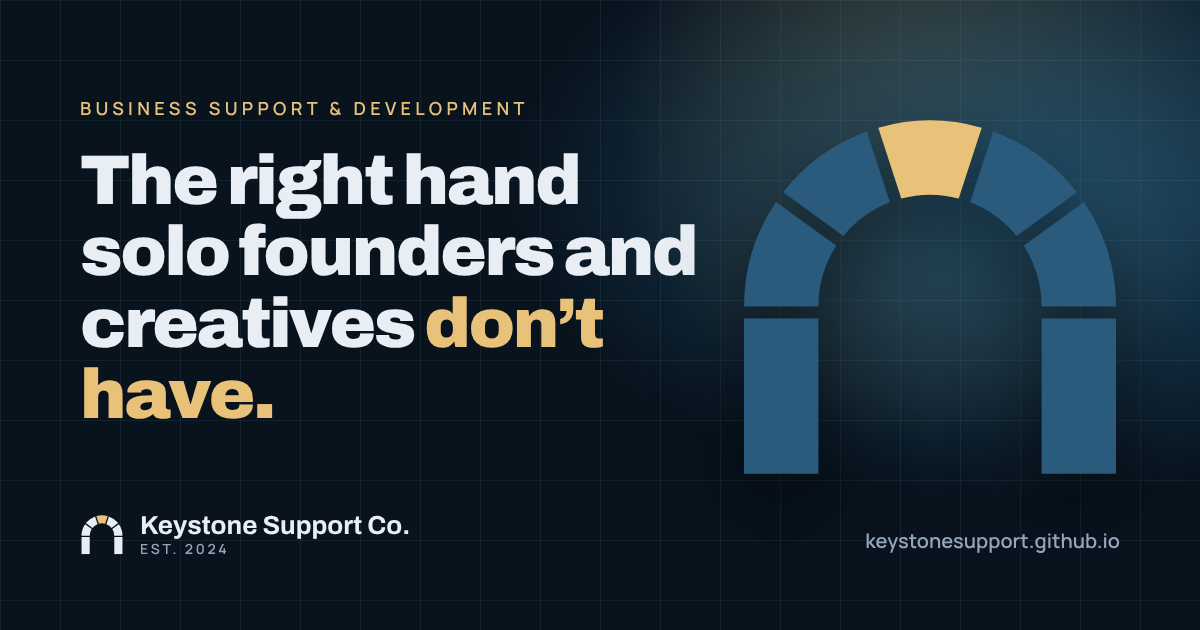
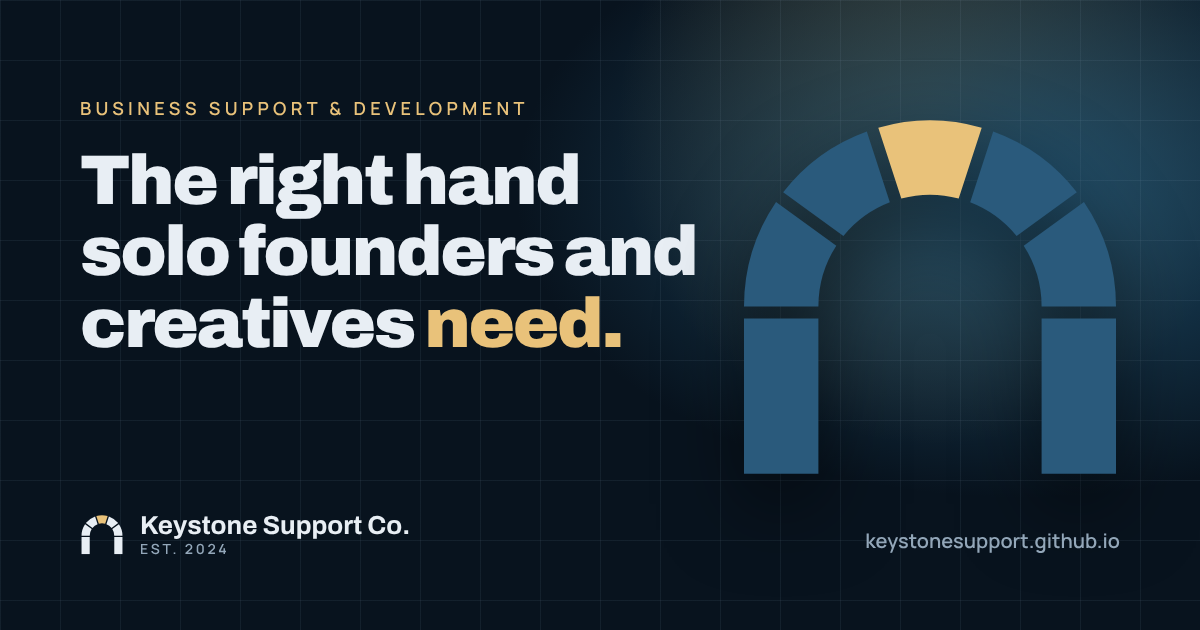
Professional hero copy, tighter spacing, matching arch labels

Changed region(s): [[0.3392, 0.4524, 0.5242, 0.573], [0.0617, 0.573, 0.2467, 0.6635]]

diff --git a/index.html b/index.html
@@ -4,7 +4,7 @@
 <meta charset="utf-8">
 <meta name="viewport" content="width=device-width, initial-scale=1">
 <title>Keystone Support Co. — Business support &amp; development</title>
-<meta name="description" content="The right hand solo founders and creatives don't have: admin, website care, cost savings, promotion and new opportunities from one partner. Established 2024.">
+<meta name="description" content="The right hand solo founders and creatives need: admin, website care, cost savings, promotion and new opportunities from one partner. Established 2024.">
 <meta property="og:title" content="Keystone Support Co. — Business support &amp; development">
 <meta property="og:description" content="Support and development for solo founders and creatives, from one partner.">
 <meta property="og:type" content="website">
@@ -12,7 +12,7 @@
 <meta property="og:image" content="https://keystonesupport.github.io/og-image.png">
 <meta property="og:image:width" content="1200">
 <meta property="og:image:height" content="630">
-<meta property="og:image:alt" content="Keystone Support Co. — The right hand solo founders and creatives don't have.">
+<meta property="og:image:alt" content="Keystone Support Co. — The right hand solo founders and creatives need.">
 <meta name="twitter:card" content="summary_large_image">
 <meta name="twitter:image" content="https://keystonesupport.github.io/og-image.png">
 <meta name="theme-color" content="#08131e">
@@ -84,7 +84,7 @@ header.nav.scrolled{background:rgba(8,19,30,.72);backdrop-filter:blur(14px) satu
 .btn:hover .arr{transform:translateX(4px)}
 
 /* hero */
-.hero{position:relative;min-height:100vh;min-height:100svh;display:flex;align-items:center;padding:120px 0 80px;overflow:hidden;--mx:0;--my:0}
+.hero{position:relative;min-height:88vh;min-height:88svh;display:flex;align-items:center;padding:110px 0 40px;overflow:hidden;--mx:0;--my:0}
 .hero .bgfx{position:absolute;inset:0;pointer-events:none}
 .blob{position:absolute;border-radius:50%;filter:blur(80px);opacity:.55}
 .blob.b1{width:620px;height:620px;right:-140px;top:-120px;background:radial-gradient(circle,#1f4e6b,transparent 65%);transform:translate(calc(var(--mx)*-30px),calc(var(--my)*-30px))}
@@ -141,8 +141,8 @@ header.nav.scrolled{background:rgba(8,19,30,.72);backdrop-filter:blur(14px) satu
 
 /* sections */
 section{position:relative}
-.band{padding:130px 0}
-.sec-head{display:flex;justify-content:space-between;align-items:end;gap:40px;margin-bottom:60px;flex-wrap:wrap}
+.band{padding:80px 0}
+.sec-head{display:flex;justify-content:space-between;align-items:end;gap:40px;margin-bottom:40px;flex-wrap:wrap}
 .sec-head h2{margin-top:18px;max-width:720px}
 .sec-head .lead{max-width:420px}
 [data-reveal]{transition:opacity 1s var(--ease),transform 1s var(--ease);transition-delay:calc(var(--d,0)*90ms)}
@@ -375,7 +375,7 @@ input[type=range]:focus-visible{box-shadow:0 0 0 3px rgba(233,194,122,.35)}
 .ba-cap{font-size:12.5px;color:var(--dim);margin-top:12px;text-align:center}
 
 /* contact form */
-.contact{padding:130px 0 110px;overflow:hidden}
+.contact{padding:80px 0 80px;overflow:hidden}
 .contact .glow{position:absolute;left:50%;top:40%;width:900px;height:600px;transform:translate(-50%,-50%);background:radial-gradient(ellipse,rgba(31,78,107,.55),transparent 65%);filter:blur(40px);pointer-events:none}
 .contact-grid{position:relative;display:grid;grid-template-columns:.85fr 1.15fr;gap:60px;align-items:start}
 .contact-info .lead{margin:20px 0 34px}
@@ -462,7 +462,9 @@ footer{border-top:1px solid var(--line);padding:60px 0 40px;color:var(--muted);f
   .menu-open header.nav{background:rgba(8,19,30,.97)}
   .menu-btn{display:block}
   .wrap{padding:0 16px}
-  .band{padding:90px 0}
+  .band{padding:56px 0}
+  .contact{padding:56px 0}
+  .sec-head{margin-bottom:28px}
   .services,.services.s3,.plans.p4,.tasks,.chips,.two,.stats{grid-template-columns:1fr}
   .side-head small{display:none}
   .stats{grid-template-columns:repeat(3,1fr);gap:8px}
@@ -516,7 +518,7 @@ footer{border-top:1px solid var(--line);padding:60px 0 40px;color:var(--muted);f
   </div>
   <div class="wrap">
     <div>
-      <h1 aria-label="The right hand solo founders and creatives don’t have.">
+      <h1 aria-label="The right hand solo founders and creatives need.">
         <span class="word"><span style="transition-delay:0.15s">The</span></span>
         <span class="word"><span style="transition-delay:0.21s">right</span></span>
         <span class="word"><span style="transition-delay:0.27s">hand</span></span>
@@ -526,10 +528,9 @@ footer{border-top:1px solid var(--line);padding:60px 0 40px;color:var(--muted);f
         <span class="word"><span class="serif grad" style="transition-delay:0.45s">and</span></span>
         <span class="word"><span class="serif grad" style="transition-delay:0.51s">creatives</span></span>
         <br>
-        <span class="word"><span style="transition-delay:0.57s">don’t</span></span>
-        <span class="word"><span style="transition-delay:0.63s">have.</span></span>
+        <span class="word"><span style="transition-delay:0.63s">need.</span></span>
       </h1>
-      <p class="lead fade-up" style="transition-delay:.6s">Keystone keeps your business running and helps it grow — the admin, the website, the savings, the promotion and the next opportunity — handled by one partner instead of three.</p>
+      <p class="lead fade-up" style="transition-delay:.6s">Operational support and business development for independent founders and creative professionals — managing your administration, digital presence and growth through one accountable partner.</p>
       <div class="hero-ctas fade-up" style="transition-delay:.75s">
         <a href="#contact" class="btn gold magnet">Get a free review <span class="arr">→</span></a>
         <a href="#work" class="btn ghost magnet">See the proof</a>
@@ -552,9 +553,9 @@ footer{border-top:1px solid var(--line);padding:60px 0 40px;color:var(--muted);f
           <path class="stone" style="--i:1" d="M166.22 57.61 A80 80 0 0 1 180.00 102.50 L148.00 102.50 A48 48 0 0 0 140.30 76.43Z"/>
           <path class="stone key" d="M77.76 25.65 A80 80 0 0 1 122.24 25.65 L112.34 56.11 A48 48 0 0 0 87.66 56.11Z"/>
         </svg>
-        <div class="tag t2"><i></i><span>Promotion</span></div>
+        <div class="tag t2"><i></i><span>Brand &amp; promotion</span></div>
         <div class="tag t1"><i></i><span>Operations &amp; savings</span></div>
-        <div class="tag t3"><i></i><span>Opportunities</span></div>
+        <div class="tag t3"><i></i><span>Opportunities &amp; growth</span></div>
         <div class="tag t4"><i></i><span>Website care</span></div>
       </div>
     </div>
@@ -715,7 +716,7 @@ footer{border-top:1px solid var(--line);padding:60px 0 40px;color:var(--muted);f
 </section>
 
 <!-- FAQ -->
-<section class="band" id="questions" style="padding-top:60px">
+<section class="band" id="questions">
   <div class="wrap faq-grid">
     <div>
       <span class="eyebrow" data-reveal>Questions</span>
